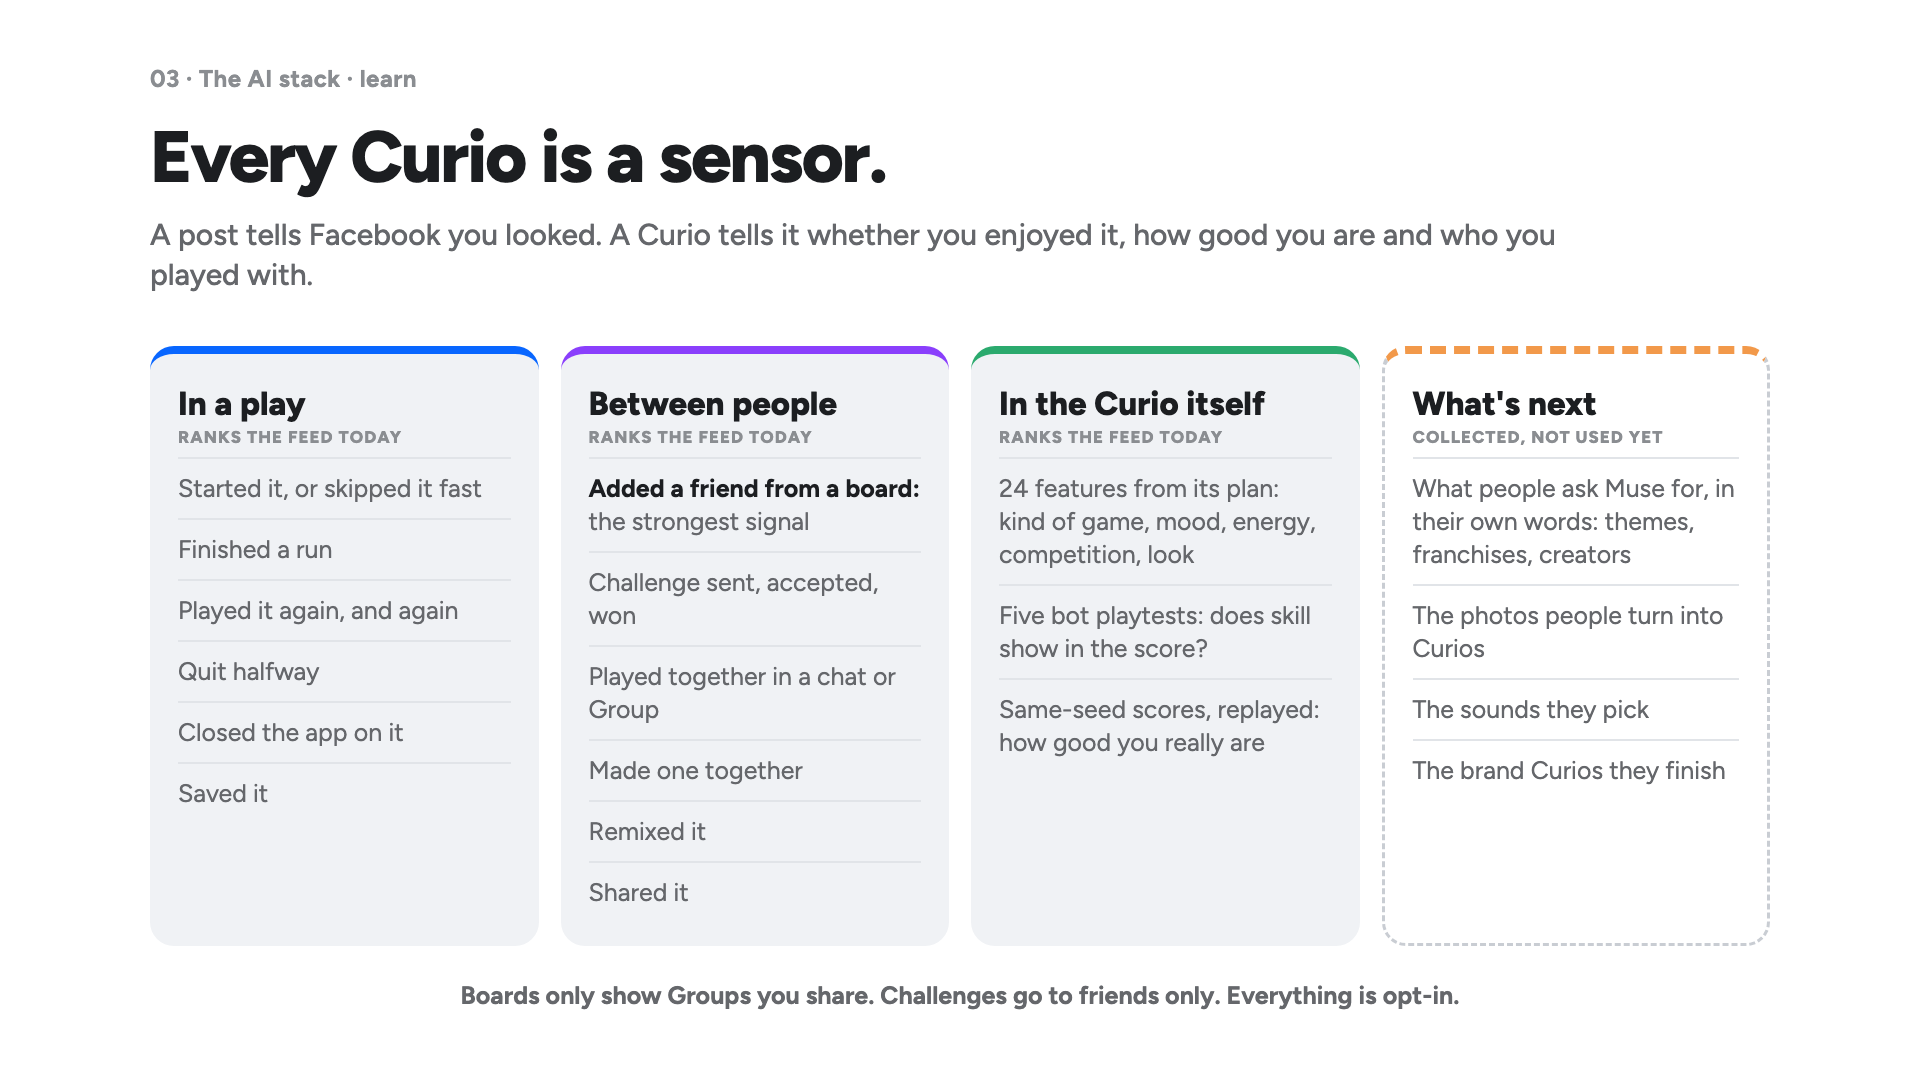
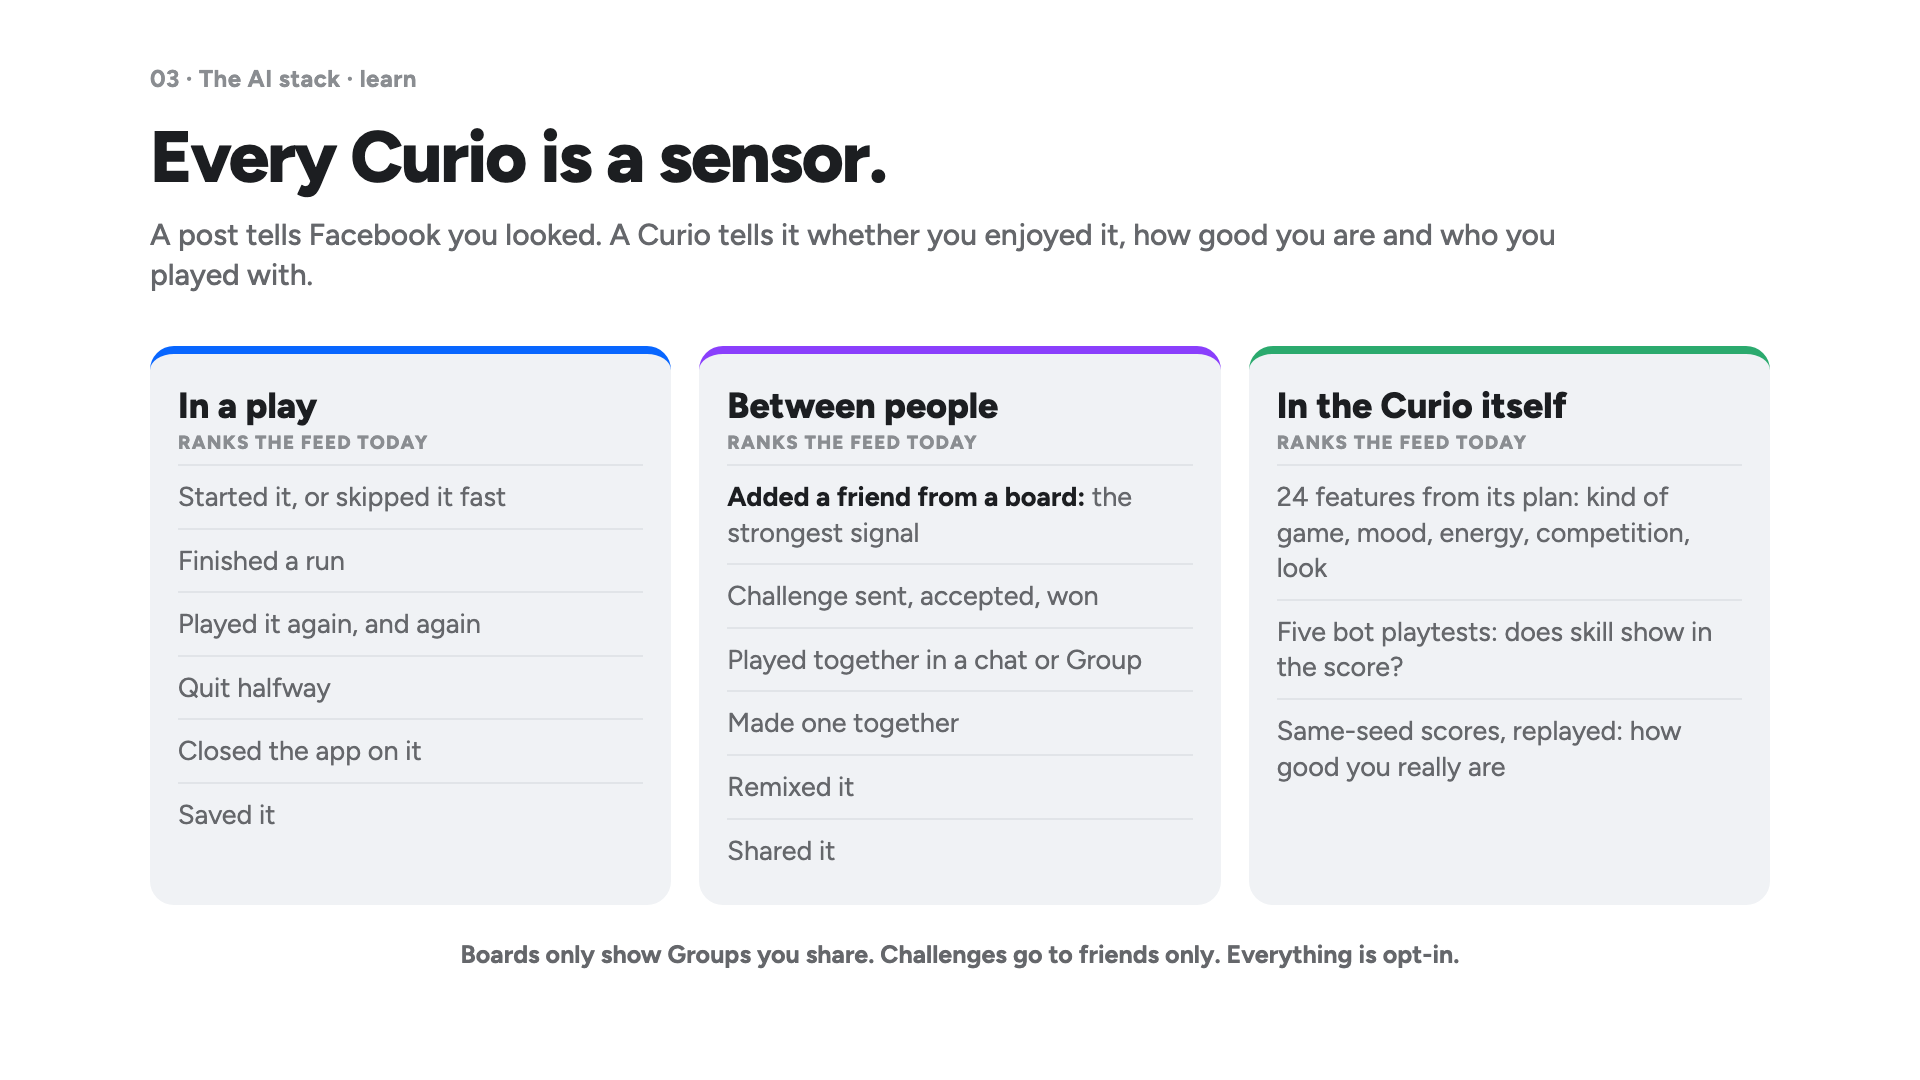
Slide 21: remove the What's next column (Karthik's ask); notes and sources follow

diff --git a/docs/pr/slides/deck.html b/docs/pr/slides/deck.html
@@ -752,6 +752,7 @@ h2 { font-size: 96px; line-height: 1.04; font-weight: 800; letter-spacing: -.025
 .def .dfan { position: absolute; right: 150px; top: 96px; width: 800px; height: 540px; }
 .def .dfan img { position: absolute; left: var(--x); top: var(--y); width: 230px; height: 414px; object-fit: cover; border-radius: 26px; transform: rotate(var(--r)); box-shadow: 0 0 0 6px #fff, 0 24px 50px rgba(16,24,64,.22); }
 .def .dfan p { position: absolute; bottom: 0; right: 10px; font-size: 22px; font-weight: 700; color: var(--muted); }
+.slide.aid .aidg { grid-template-columns: repeat(3, 1fr); gap: 28px; } .slide.aid .aidc em { font-size: 36px; } .slide.aid .aidc small { font-size: 19px; } .slide.aid .aidc p { font-size: 27px; padding: 13px 0; }
 </style>
 </head>
 <body>
@@ -1109,7 +1110,6 @@ h2 { font-size: 96px; line-height: 1.04; font-weight: 800; letter-spacing: -.025
     <div class="aidc b"><em>In a play</em><small>ranks the feed today</small><p>Started it, or skipped it fast</p><p>Finished a run</p><p>Played it again, and again</p><p>Quit halfway</p><p>Closed the app on it</p><p>Saved it</p></div>
     <div class="aidc v"><em>Between people</em><small>ranks the feed today</small><p><b>Added a friend from a board:</b> the strongest signal</p><p>Challenge sent, accepted, won</p><p>Played together in a chat or Group</p><p>Made one together</p><p>Remixed it</p><p>Shared it</p></div>
     <div class="aidc g"><em>In the Curio itself</em><small>ranks the feed today</small><p>24 features from its plan: kind of game, mood, energy, competition, look</p><p>Five bot playtests: does skill show in the score?</p><p>Same-seed scores, replayed: how good you really are</p></div>
-    <div class="aidc n"><em>What's next</em><small>collected, not used yet</small><p>What people ask Muse for, in their own words: themes, franchises, creators</p><p>The photos people turn into Curios</p><p>The sounds they pick</p><p>The brand Curios they finish</p></div>
   </div>
   <div class="aipv">Boards only show Groups you share. Challenges go to friends only. Everything is opt-in.</div>
 </section>

diff --git a/docs/pr/slides/notes.md b/docs/pr/slides/notes.md
@@ -85,7 +85,7 @@ Does it look right? Every bot run is replayed and checked every tenth of a secon
 Third, rank. Anyone can make a Curio, so there will be far more Curios than anyone can play, and the feed decides which ones you see. A feed tuned for clicks fills with bait. Ours asks two questions of every page: did it grab you, and did it pay off? Did you finish, replay, save, challenge, add a friend? Pay-off counts two and a half times as much as grab. It learns your taste from 24 features of each Curio's plan, starts a new Curio from its bot playtest instead of from zero, and guards against slop and bait. For a Group, Group Blend scores the chance that everyone enjoys a Curio, and drops any one member would hate. It runs on our server for every feed page. In simulation, with synthetic people, it won 70% of sessions against today's feed, and Group picks that every member enjoys went from 8.7 to 32 percent.
 
 ## 21
-And fourth, learn. Every Curio is a sensor. A post tells Facebook you looked. A Curio tells it whether you enjoyed it, how good you are and who you played with. In a play: you started it or skipped it, finished, replayed, quit halfway. Between people: a challenge sent, accepted or won, a game played together in a chat, a Curio made together, a remix, and the strongest signal of all, adding a friend from a board. Next, what people ask Muse for, in their own words, is the richest interest signal there is; we collect it, but don't use it for ranking yet. And all of it is scoped: boards only show Groups you share, challenges go to friends only, and everything is opt-in.
+And fourth, learn. Every Curio is a sensor. A post tells Facebook you looked. A Curio tells it whether you enjoyed it, how good you are and who you played with. In a play: you started it or skipped it, finished, replayed, quit halfway. Between people: a challenge sent, accepted or won, a game played together in a chat, a Curio made together, a remix, and the strongest signal of all, adding a friend from a board. And all of it is scoped: boards only show Groups you share, challenges go to friends only, and everything is opt-in.
 
 ## 22
 *(Section header: "Our process".)* And how we built it.

diff --git a/docs/pr/slides/sources-by-slide.md b/docs/pr/slides/sources-by-slide.md
@@ -56,4 +56,4 @@ Karthik's ask (2026-11-13): section 3 covers the whole AI stack and how it plugs
 - "In a play" signals: `docs/RANKING.md` 1.1 (takeover, preview ≥ 6 s, skip < 1.2 s, finished, replays, quit mid-run, ended the session, saved).
 - "Between people": the app posts `remix`, `share`, `co_make_contribution`, `group_chat_play`, `game_night_play`, `challenge_won` and `add_friend_from_game` (`BubbleSocialSignals.post` calls on `main`); the server records `challenge_sent` and `challenge_accepted` itself (`backend/README.md`, Max's 09:04 audit). Add friend from a game is the strongest single signal (+4, RANKING 1.1). `challenge_rematch` is weighted but never sent, so it's not on the slide.
 - "In the Curio itself": 24 manifest features; bot playtest results; same-seed replayed scores, with skill spread used by Group Blend (RANKING 1.5).
-- "What's next, collected, not used yet": prompts, photos, sounds and sponsored-Curio plays are stored with each game or event but don't feed the ranker today. Creator payouts and ad targeting are proposals (`FEATURES.md` #13).
+- (The "What's next" column was removed at Karthik's ask, 2026-11-13.)
